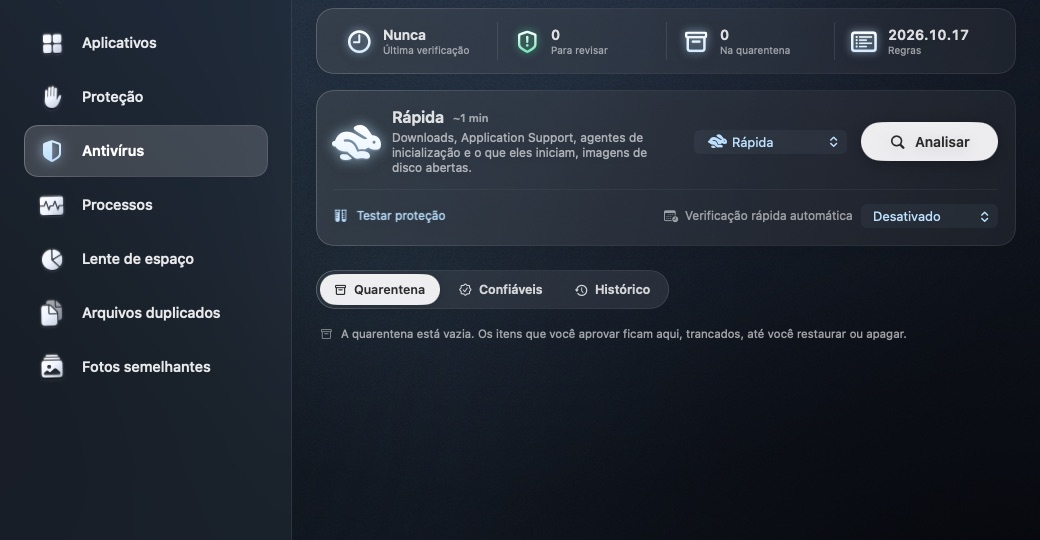
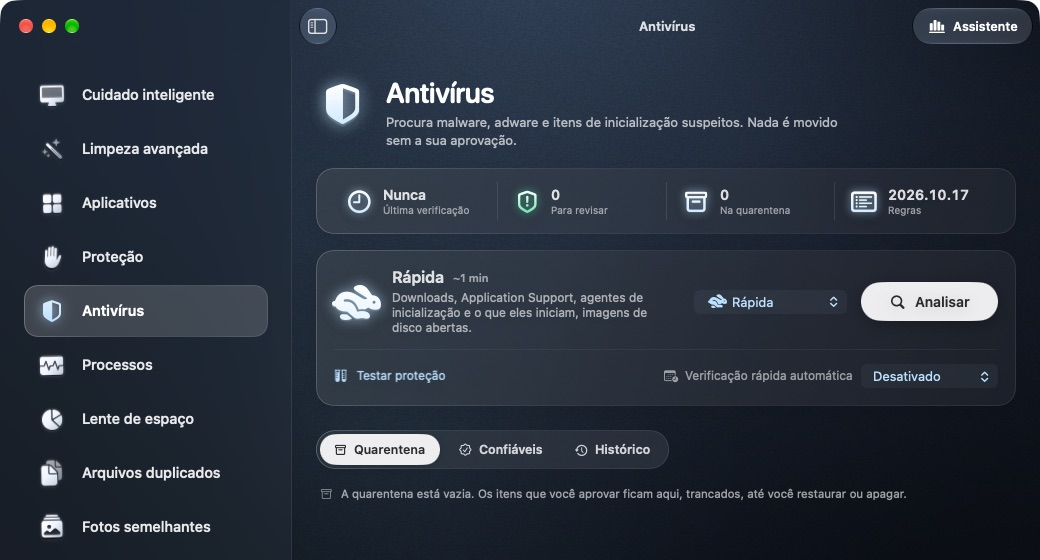
fix: MacDash com a tela principal inteira e o Antivírus cortado só embaixo
A foto principal mostra o Cuidado inteligente completo, com o nome do
computador trocado por "Meu Mac". A do Antivírus mantém o topo, fica
maior e passa a ficar abaixo da principal sem cobri-la.

diff --git a/index.html b/index.html
@@ -165,9 +165,9 @@
           <span class="req">macOS 13 Ventura ou mais novo · Apple Silicon e Intel</span>
         </div>
       </div>
-      <div class="shots">
-        <button class="shot shot-main" type="button"><img src="assets/shots/macdash-care.jpg" alt="Cuidado inteligente do MacDash" loading="lazy" width="1040" height="470"></button>
-        <button class="shot shot-sub" type="button"><img src="assets/shots/macdash-antivirus.jpg" alt="Antivírus do MacDash" loading="lazy" width="1040" height="540"></button>
+      <div class="shots stacked">
+        <button class="shot shot-main" type="button"><img src="assets/shots/macdash-care.jpg" alt="Cuidado inteligente do MacDash" loading="lazy" width="1040" height="860"></button>
+        <button class="shot shot-sub wide-shot" type="button"><img src="assets/shots/macdash-antivirus.jpg" alt="Antivírus do MacDash" loading="lazy" width="1040" height="560"></button>
       </div>
     </article>
 

diff --git a/style.css b/style.css
@@ -210,3 +210,6 @@ a.card{display:block;color:inherit}
 
 /* seis apps: 3 por linha no desktop */
 @media (min-width:861px){.apps-grid{grid-template-columns:repeat(3,minmax(0,1fr))}}
+.shot-sub.wide-shot{width:64%}
+/* MacDash: a segunda foto fica abaixo da principal, sem cobrir o conteúdo dela */
+.shots.stacked{padding-bottom:29%}
